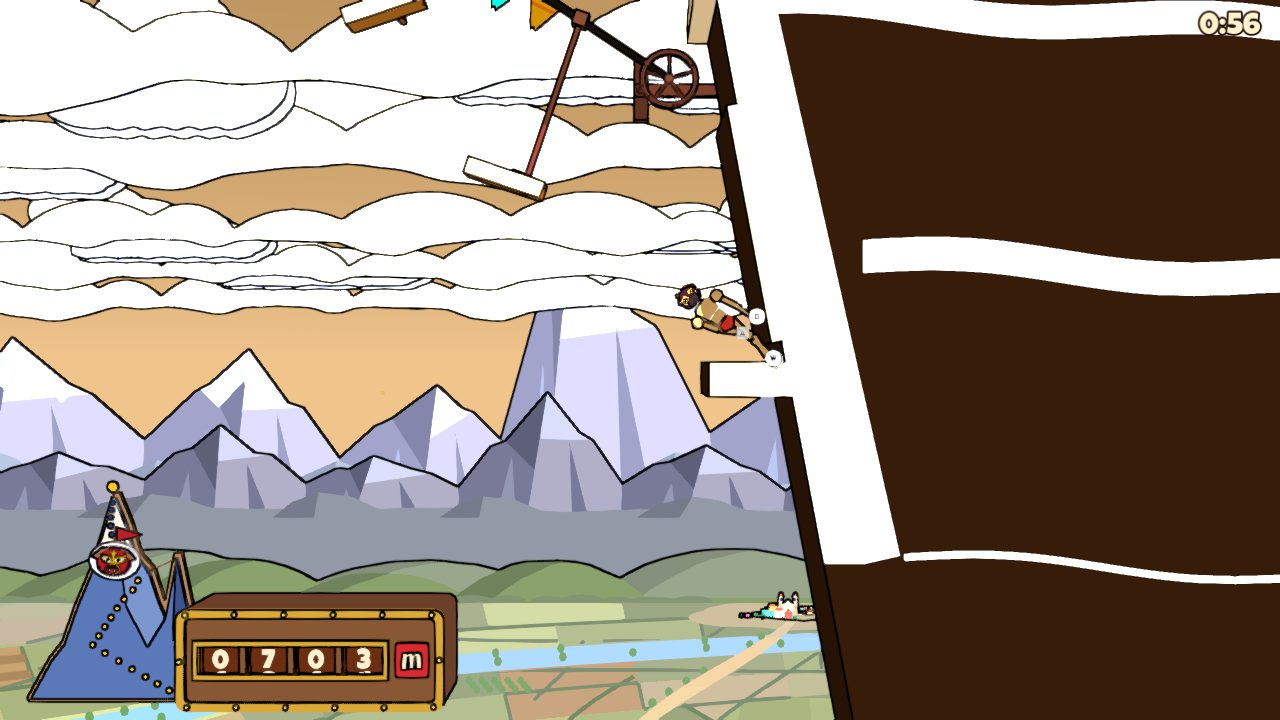
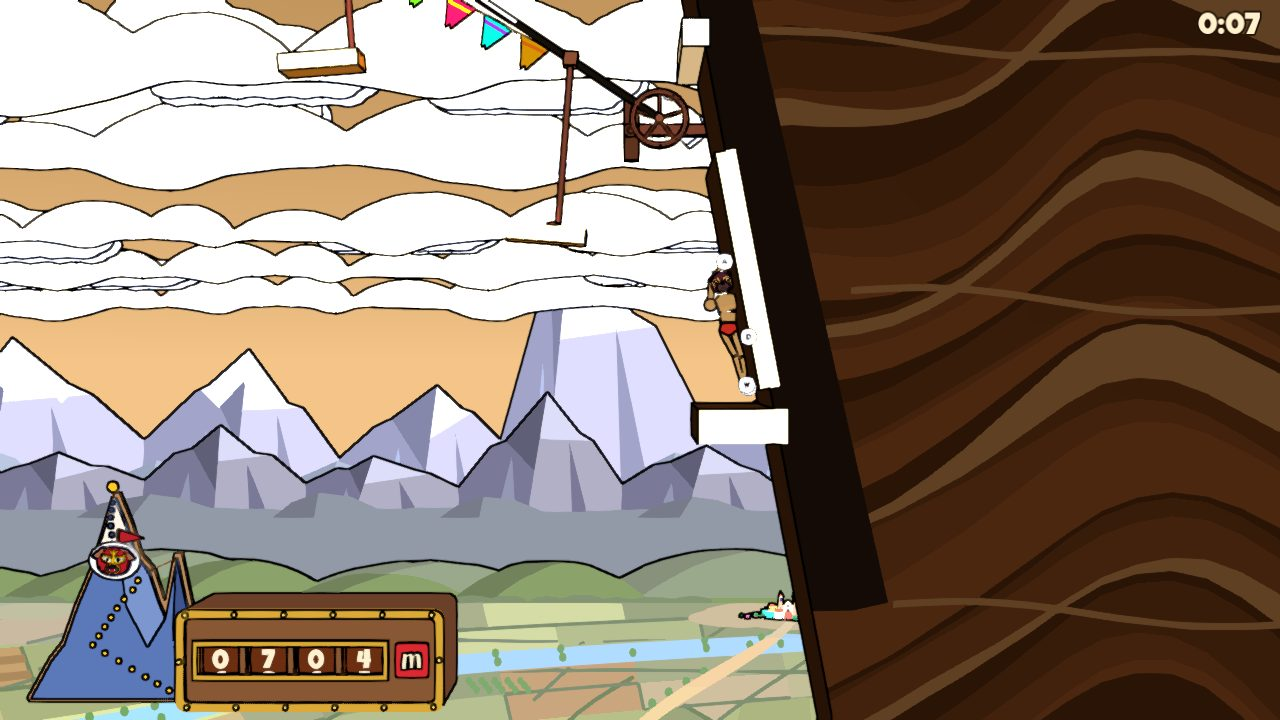
Peak modelling run: the summit's frames; the fang re-framed; every biome fully modelled

diff --git a/docs/peak/MODELLING_RUN.md b/docs/peak/MODELLING_RUN.md
@@ -84,13 +84,15 @@ bespoke is modelled for the frozen climbers or the ending's climber until it is 
 | 5 El Templo | done | `a5_dress.py` WIRED (f12c640) | all landed and synced (A 87, B 11, C 12) | yes: `docs/peak/frames/a5_templo_*` (back pieces darker and cooler: `a5_templo_*_darker.jpg`) |
 | 6 La Chimenea | done | `a6_dress.py` WIRED (8788f09) | all landed and synced (A 37, B 9, C 40) | yes: `docs/peak/frames/a6_forja_*` |
 | 7 Los Riscos del Viento | done | `a7_dress.py` WIRED (8451f10) | all landed and synced (A 35 + the tower top, B 16, C 23; faces re-landed matte after the polished finish striped them); the 7.6 m wheel; the tower top cut at 658 | yes: `docs/peak/frames/a7_riscos_*` |
-| 8 El Teleférico | done; revised (real roofs, hangers held) | `a8_dress.py` WIRED (faa373e) | all landed and synced (A 13, B 6, C 46, and the seven re-makes as `_tele` stems) | yes: `docs/peak/frames/a8_tele_*` (the sky shows now; the fang's polished rock reads flat black: being re-made matte) |
+| 8 El Teleférico | done; revised (real roofs, hangers held) | `a8_dress.py` WIRED (faa373e) | all landed and synced (A 13, B 6, C 46, and the seven re-makes as `_tele` stems) | yes: `docs/peak/frames/a8_tele_*` (the sky shows; the fang re-landed matte, painted like the cliffs) |
 | 9 El Glaciar | done; revised (three wall arrow signs) | `a9_dress.py` WIRED (9b64b15) | all landed and synced (A 54, B 6, C 8) | yes: `docs/peak/frames/a9_glaciar_*` |
 | 10 La Cresta de la Tormenta | done | `a10_dress.py` WIRED (fefc451) | all landed and synced (A 40, B 5, C 25) | yes: `docs/peak/frames/a10_tormenta_*` (re-landed matte: `a10_tormenta_*_matte.jpg`) |
-| 11 La Cumbre | done; revised (the secret the right way round; the ring) | `a11_dress.py` WIRED (2848c76) | ring ropes landed (thread C); B 11 and C 14 landed; A 32 with thread C | |
+| 11 La Cumbre | done; revised (the secret the right way round; the ring) | `a11_dress.py` WIRED (2848c76) | all landed and synced (A 32, B 11, C 14; the ring ropes) | yes: `docs/peak/frames/a11_cumbre_*` |
 
 Mountain-wide small pieces (wave 0, no placement needed): frogs, signs, tea things
 (thread B, in progress); iron rings, staples, pegs, the summit's ring ropes (thread C: all
 thirteen landed in the kit, not yet synced into the game).
+
+**11-14, 07:00: every biome fully modelled, wired and framed.** Owed only: Parker's eyes, the effects list in WORK_LOG.md, and the small props still polished (thread C's P-C19 list).
 
 **Pace (night of 11-13):** the makers are the bottleneck. Biomes 0 to 2 are fully modelled (242 models). Thread A stopped on 11-14 (its handover note is in the side-session notes folder); its walls and masses for biomes 3 to 6 went to a maker agent and to threads B and C, who finished their own rows for biomes 0 to 5. The unwired effects the fix thread could not build yet are listed in its `WORK_LOG.md`.
